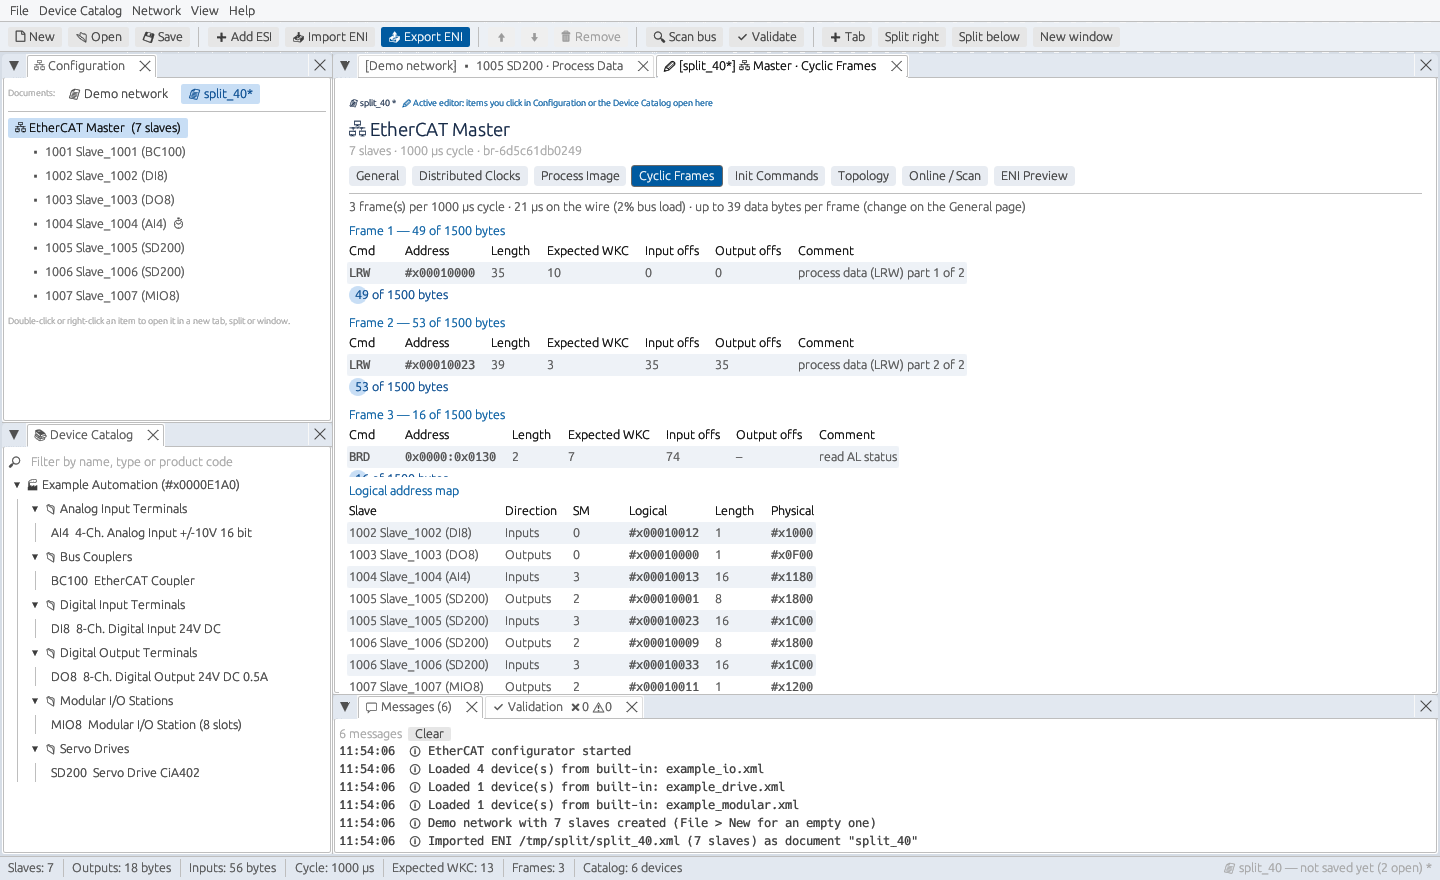
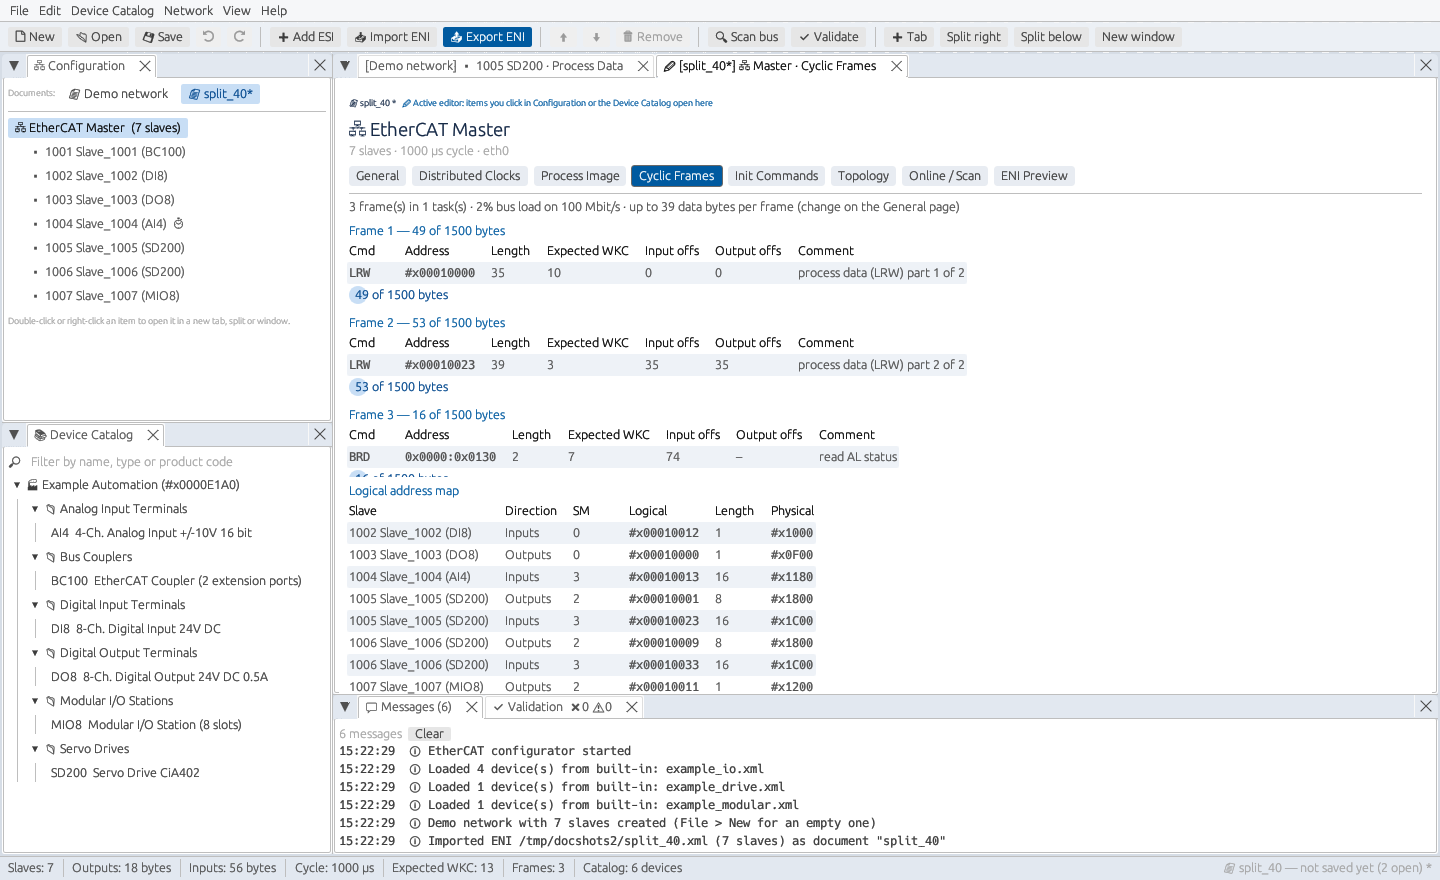
Keep this computer's network adapters out of screenshots
Picture mode (--screenshot) now lists a placeholder adapter (eth0,
02:00:00:00:00:01) instead of the real ones, and the documentation
pictures that showed a local adapter name are retaken. Adds online and
tasks start views so those pictures can be reproduced.

diff --git a/src/ui.rs b/src/ui.rs
@@ -452,7 +452,12 @@ impl App {
             },
             scan_rx: None,
             scanned: Vec::new(),
-            adapters: scan::list_adapters(),
+            // pictures (--screenshot) never show this computer's real adapters or MAC addresses
+            adapters: if persist {
+                scan::list_adapters()
+            } else {
+                vec![("eth0".into(), "02:00:00:00:00:01".into())]
+            },
             show_about: false,
             settings,
             persist,
@@ -534,6 +539,22 @@ impl App {
                 }
                 "init" => {
                     app.slave_tab = SlaveTab::InitCmds;
+                }
+                "online" => {
+                    app.sel = Sel::Master;
+                    app.master_tab = MasterTab::Online;
+                }
+                "tasks" => {
+                    // the first servo drive runs in a slower second task
+                    app.project.master.tasks.push(crate::model::TaskCfg {
+                        name: "Task 2".into(),
+                        cycle_time_us: 4000,
+                    });
+                    if let Some(k) = app.project.slaves.iter().position(|s| s.device.type_name == "SD200") {
+                        app.project.slaves[k].task = 1;
+                    }
+                    app.sel = Sel::Master;
+                    app.master_tab = MasterTab::Cyclic;
                 }
                 "eeprom" => {
                     app.slave_tab = SlaveTab::Eeprom;
